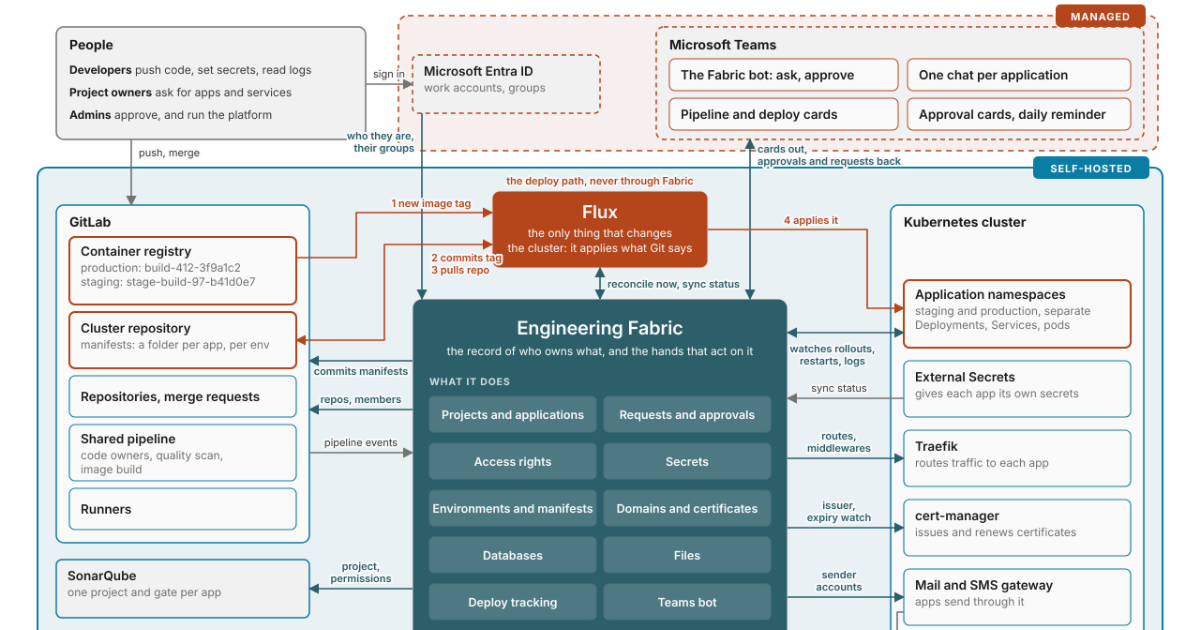
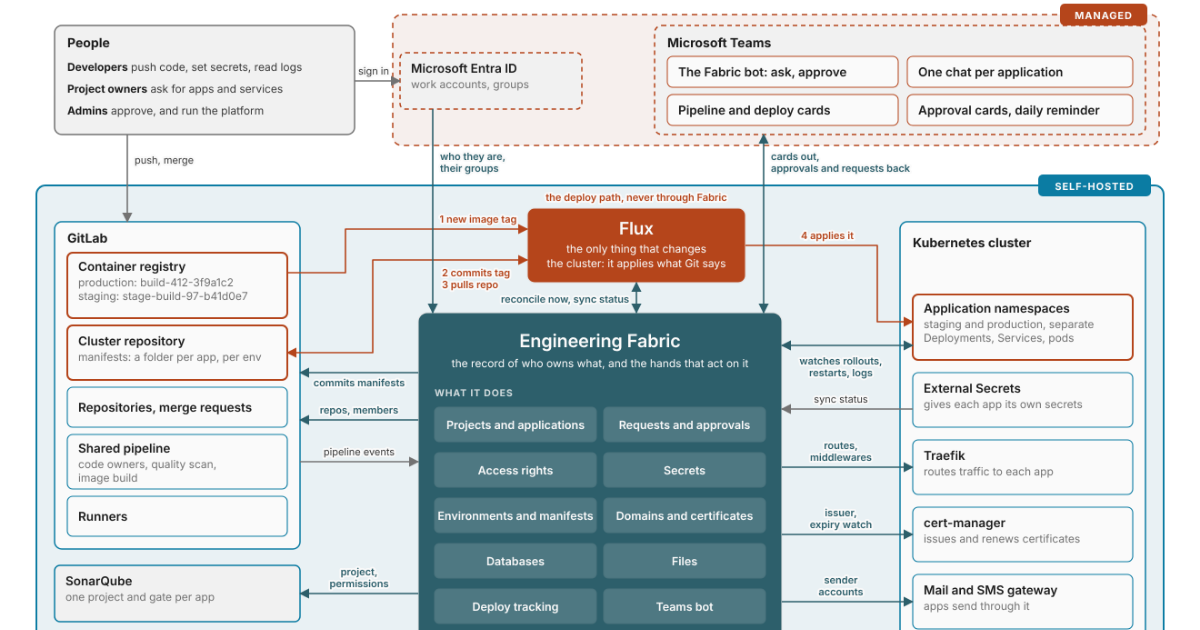
Writing: clean up the architecture map (wider gaps, no label or arrow collisions)
Claude-Session: https://claude.ai/code/session_01SaRwWq1zZFY1QVVTNDxtey

Changed region(s): [[0.0308, 0.0, 0.9867, 1.0]]

diff --git a/blog/how-we-deploy-at-cb/index.html b/blog/how-we-deploy-at-cb/index.html
@@ -36,7 +36,7 @@
 <li>The rust line is the deploy path, numbered in order. Flux sits on it between GitLab and the cluster: it sees a new image in the registry, commits the tag to the cluster repository, pulls that repository, and applies it. None of that touches Fabric.</li>
 </ul>
 
-<figure class='dg arch'><a class='zoom' href='img/architecture.png' aria-label='Open the diagram full size'><div class='dg-wrap'><svg viewBox='0 0 1240 1166' role='img' aria-labelledby='archt archd'><title id='archt'>Architecture: Engineering Fabric and the systems around it</title><desc id='archd'>Developers, project owners and admins sign in through Microsoft Entra ID and are reached in Microsoft Teams. Engineering Fabric, in the centre, creates repositories and sets members in GitLab, creates SonarQube projects, writes secrets to Vault, creates databases, commits manifests to the cluster repository, watches rollouts in Kubernetes, and manages DNS, file storage and API keys at Cloudflare, an S3 service and Google Cloud. Deployments go from GitLab's registry to Flux to the cluster without passing through Fabric.</desc><defs><marker id='arch-ink' class='mk-ink' viewBox='0 0 10 10' refX='9' refY='5' markerWidth='7' markerHeight='7' orient='auto-start-reverse'><path d='M0 0L10 5L0 10z'/></marker><marker id='arch-fab' class='mk-fab' viewBox='0 0 10 10' refX='9' refY='5' markerWidth='7' markerHeight='7' orient='auto-start-reverse'><path d='M0 0L10 5L0 10z'/></marker><marker id='arch-dep' class='mk-dep' viewBox='0 0 10 10' refX='9' refY='5' markerWidth='7' markerHeight='7' orient='auto-start-reverse'><path d='M0 0L10 5L0 10z'/></marker><marker id='arch-sec' class='mk-sec' viewBox='0 0 10 10' refX='9' refY='5' markerWidth='7' markerHeight='7' orient='auto-start-reverse'><path d='M0 0L10 5L0 10z'/></marker></defs><rect class='mregion' x='405' y='18' width='810' height='144' rx='10'/><rect class='mregion' x='25' y='1068' width='1190' height='86' rx='10'/><rect class='region' x='20' y='180' width='1200' height='848' rx='10'/><g class='tab own'><rect x='1082' y='168' width='124' height='24' rx='5'/><text x='1144' y='185' text-anchor='middle'>Self-hosted</text></g><g class='tab rent'><rect x='1106' y='6' width='96' height='24' rx='5'/><text x='1154' y='23' text-anchor='middle'>Managed</text></g><g class='tab rent'><rect x='1106' y='1056' width='96' height='24' rx='5'/><text x='1154' y='1073' text-anchor='middle'>Managed</text></g><g class='actor'><rect class='n' x='40' y='30' width='330' height='120' rx='8'/><text class='zt' x='54' y='54'>People</text><text class='pl' x='54' y='80'><tspan class='pb'>Developers</tspan> push code, set secrets, read logs</text><text class='pl' x='54' y='104'><tspan class='pb'>Project owners</tspan> ask for apps and services</text><text class='pl' x='54' y='128'><tspan class='pb'>Admins</tspan> approve, and run the platform</text></g><g class='rent'><rect class='n' x='420' y='60' width='200' height='62' rx='6'/><text class='t' x='432' y='82'>Microsoft Entra ID</text><text x='432' y='99'>work accounts, groups</text></g><g class='rent'><rect class='n' x='680' y='30' width='520' height='120' rx='8'/><text class='zt' x='694' y='54'>Microsoft Teams</text></g><g class='rent in'><rect class='n' x='694' y='64' width='244' height='34' rx='6'/><text class='t' x='706' y='86'>The Fabric bot: ask, approve</text></g><g class='rent in'><rect class='n' x='948' y='64' width='238' height='34' rx='6'/><text class='t' x='960' y='86'>One chat per application</text></g><g class='rent in'><rect class='n' x='694' y='106' width='244' height='34' rx='6'/><text class='t' x='706' y='128'>Pipeline and deploy cards</text></g><g class='rent in'><rect class='n' x='948' y='106' width='238' height='34' rx='6'/><text class='t' x='960' y='128'>Approval cards, daily reminder</text></g><rect class='zone' x='40' y='220' width='270' height='360' rx='8'/><text class='zt' x='54' y='243'>GitLab</text><g class='own in dep'><rect class='n' x='54' y='254' width='242' height='72' rx='6'/><text class='t' x='66' y='274'>Container registry</text><text x='66' y='291'>production: build-412-3f9a1c2</text><text x='66' y='306'>staging: stage-build-97-b41d0e7</text></g><g class='own in dep'><rect class='n' x='54' y='334' width='242' height='60' rx='6'/><text class='t' x='66' y='356'>Cluster repository</text><text x='66' y='373'>manifests: a folder per app, per env</text></g><g class='own in'><rect class='n' x='54' y='402' width='242' height='44' rx='6'/><text class='t' x='66' y='429'>Repositories, merge requests</text></g><g class='own in'><rect class='n' x='54' y='454' width='242' height='60' rx='6'/><text class='t' x='66' y='474'>Shared pipeline</text><text x='66' y='491'>code owners, quality scan,</text><text x='66' y='506'>image build</text></g><g class='own in'><rect class='n' x='54' y='522' width='242' height='44' rx='6'/><text class='t' x='66' y='549'>Runners</text></g><g class='own'><rect class='n' x='40' y='598' width='270' height='62' rx='6'/><text class='t' x='52' y='620'>SonarQube</text><text x='52' y='637'>one project and gate per app</text></g><g class='own'><rect class='n' x='40' y='678' width='270' height='62' rx='6'/><text class='t' x='52' y='700'>Vault</text><text x='52' y='717'>one path per app and environment</text></g><g class='own'><rect class='n' x='40' y='758' width='270' height='62' rx='6'/><text class='t' x='52' y='780'>NetBird and Hoppscotch</text><text x='52' y='797'>VPN, API workspace per app</text></g><g class='own'><rect class='n' x='40' y='838' width='270' height='62' rx='6'/><text class='t' x='52' y='860'>Database servers</text><text x='52' y='877'>PostgreSQL and MySQL</text></g><g class='own'><rect class='n' x='40' y='918' width='270' height='62' rx='6'/><text class='t' x='52' y='940'>Renovate and Trivy</text><text x='52' y='957'>dependency updates, image scans</text></g><g class='flux'><rect x='505' y='205' width='230' height='82' rx='8'/><text class='t' x='620' y='234' text-anchor='middle'>Flux</text><text x='620' y='254' text-anchor='middle'>the only thing that changes</text><text x='620' y='270' text-anchor='middle'>the cluster: it applies what Git says</text></g><g class='hub'><rect x='420' y='320' width='400' height='680' rx='10'/><text class='t' x='620' y='358' text-anchor='middle'>Engineering Fabric</text><text x='620' y='380' text-anchor='middle'>the record of who owns what, and the hands that act on it</text><text class='hg' x='438' y='412'>What it does</text><rect class='chip' x='438' y='424' width='178' height='38' rx='5'/><text class='ct' x='527' y='448' text-anchor='middle'>Projects and applications</text><rect class='chip' x='624' y='424' width='178' height='38' rx='5'/><text class='ct' x='713' y='448' text-anchor='middle'>Requests and approvals</text><rect class='chip' x='438' y='474' width='178' height='38' rx='5'/><text class='ct' x='527' y='498' text-anchor='middle'>Access rights</text><rect class='chip' x='624' y='474' width='178' height='38' rx='5'/><text class='ct' x='713' y='498' text-anchor='middle'>Secrets</text><rect class='chip' x='438' y='524' width='178' height='38' rx='5'/><text class='ct' x='527' y='548' text-anchor='middle'>Environments and manifests</text><rect class='chip' x='624' y='524' width='178' height='38' rx='5'/><text class='ct' x='713' y='548' text-anchor='middle'>Domains and certificates</text><rect class='chip' x='438' y='574' width='178' height='38' rx='5'/><text class='ct' x='527' y='598' text-anchor='middle'>Databases</text><rect class='chip' x='624' y='574' width='178' height='38' rx='5'/><text class='ct' x='713' y='598' text-anchor='middle'>Files</text><rect class='chip' x='438' y='624' width='178' height='38' rx='5'/><text class='ct' x='527' y='648' text-anchor='middle'>Deploy tracking</text><rect class='chip' x='624' y='624' width='178' height='38' rx='5'/><text class='ct' x='713' y='648' text-anchor='middle'>Teams bot</text><rect class='chip' x='438' y='674' width='178' height='38' rx='5'/><text class='ct' x='527' y='698' text-anchor='middle'>Vulnerability scans</text><rect class='chip' x='624' y='674' width='178' height='38' rx='5'/><text class='ct' x='713' y='698' text-anchor='middle'>Audit log</text><text class='hg' x='438' y='770'>How it behaves</text><text class='hn' x='438' y='796'>Every change is recorded: who, what, when.</text><text class='hn' x='438' y='820'>Long jobs are Temporal workflows that resume</text><text class='hn' x='438' y='838'>where they stopped.</text><text class='hn' x='438' y='862'>Never reads a Kubernetes Secret.</text><text class='hn' x='438' y='886'>Changes the cluster only through Git.</text><text class='hn' x='438' y='910'>Deployed the same way as every other app.</text></g><rect class='zone' x='930' y='220' width='270' height='780' rx='8'/><text class='zt' x='944' y='243'>Kubernetes cluster</text><g class='own in dep'><rect class='n' x='944' y='300' width='242' height='72' rx='6'/><text class='t' x='956' y='320'>Application namespaces</text><text x='956' y='337'>staging and production, separate</text><text x='956' y='352'>Deployments, Services, pods</text></g><g class='own in'><rect class='n' x='944' y='386' width='242' height='60' rx='6'/><text class='t' x='956' y='408'>External Secrets</text><text x='956' y='425'>gives each app its own secrets</text></g><g class='own in'><rect class='n' x='944' y='460' width='242' height='60' rx='6'/><text class='t' x='956' y='482'>Traefik</text><text x='956' y='499'>routes traffic to each app</text></g><g class='own in'><rect class='n' x='944' y='534' width='242' height='60' rx='6'/><text class='t' x='956' y='556'>cert-manager</text><text x='956' y='573'>issues and renews certificates</text></g><g class='own in'><rect class='n' x='944' y='608' width='242' height='60' rx='6'/><text class='t' x='956' y='630'>Mail and SMS gateway</text><text x='956' y='647'>apps send through it</text></g><g class='own in'><rect class='n' x='944' y='682' width='242' height='60' rx='6'/><text class='t' x='956' y='704'>Internal tools</text><text x='956' y='721'>Jira, Metabase, wiki, DB consoles</text></g><g class='own in'><rect class='n' x='944' y='756' width='242' height='44' rx='6'/><text class='t' x='956' y='783'>Prometheus and Grafana</text></g><g class='own in'><rect class='n' x='944' y='814' width='242' height='60' rx='6'/><text class='t' x='956' y='836'>Backups and network</text><text x='956' y='853'>k8up, Cilium, Cloudflare Tunnel</text></g><g class='rent'><rect class='n' x='40' y='1082' width='190' height='62' rx='6'/><text class='t' x='52' y='1104'>Email and SMS providers</text><text x='52' y='1121'>delivery</text></g><g class='rent'><rect class='n' x='280' y='1082' width='190' height='62' rx='6'/><text class='t' x='292' y='1104'>Cloudflare</text><text x='292' y='1121'>DNS, public file CDN</text></g><g class='rent'><rect class='n' x='520' y='1082' width='190' height='62' rx='6'/><text class='t' x='532' y='1104'>S3 service</text><text x='532' y='1121'>private file storage</text></g><g class='rent'><rect class='n' x='760' y='1082' width='190' height='62' rx='6'/><text class='t' x='772' y='1104'>Google Cloud</text><text x='772' y='1121'>Maps, reCAPTCHA, Firebase</text></g><g class='rent'><rect class='n' x='1000' y='1082' width='190' height='62' rx='6'/><text class='t' x='1012' y='1104'>Certificate authorities</text><text x='1012' y='1121'>free public certificates</text></g><path class='a a-ink' d='M120 150V220' marker-end='url(#arch-ink)'/><text class='al al-ink' x='128' y='168' text-anchor='start'>push, merge</text><path class='a a-ink' d='M370 91H420' marker-end='url(#arch-ink)'/><text class='al al-ink' x='395' y='84' text-anchor='middle'>sign in</text><path class='a a-fab' d='M430 122V320' marker-end='url(#arch-fab)'/><text class='al al-fab' x='422' y='150' text-anchor='end'>who they are,</text><text class='al al-fab' x='422' y='163' text-anchor='end'>their groups</text><path class='a a-fab' d='M780 150V320' marker-end='url(#arch-fab)' marker-start='url(#arch-fab)'/><text class='al al-fab' x='788' y='164' text-anchor='start'>cards out,</text><text class='al al-fab' x='788' y='177' text-anchor='start'>approvals and requests back</text><text class='al al-dep' x='620' y='198' text-anchor='middle'>the deploy path, never through Fabric</text><path class='a a-dep' d='M296 276H360V228H505' marker-end='url(#arch-dep)'/><text class='al al-dep' x='440' y='222' text-anchor='middle'>1 new image tag</text><path class='a a-dep' d='M296 364H390V262H505' marker-end='url(#arch-dep)' marker-start='url(#arch-dep)'/><text class='al al-dep' x='440' y='280' text-anchor='start'>2 commits tag</text><text class='al al-dep' x='440' y='293' text-anchor='start'>3 pulls repo</text><path class='a a-dep' d='M735 246H905V330H944' marker-end='url(#arch-dep)'/><text class='al al-dep' x='845' y='240' text-anchor='middle'>4 applies it</text><path class='a a-fab' d='M620 320V287' marker-end='url(#arch-fab)' marker-start='url(#arch-fab)'/><text class='al al-fab' x='628' y='308' text-anchor='start'>reconcile now, sync status</text><path class='a a-fab' d='M420 386H310' marker-end='url(#arch-fab)'/><text class='al al-fab' x='365' y='401' text-anchor='middle'>commits manifests</text><path class='a a-fab' d='M420 438H310' marker-end='url(#arch-fab)'/><text class='al al-fab' x='365' y='431' text-anchor='middle'>repos, members</text><path class='a a-ink' d='M310 484H420' marker-end='url(#arch-ink)'/><text class='al al-ink' x='365' y='477' text-anchor='middle'>pipeline events</text><path class='a a-fab' d='M420 629H310' marker-end='url(#arch-fab)'/><text class='al al-fab' x='365' y='609' text-anchor='middle'>project,</text><text class='al al-fab' x='365' y='622' text-anchor='middle'>permissions</text><path class='a a-fab' d='M420 709H310' marker-end='url(#arch-fab)'/><text class='al al-fab' x='365' y='702' text-anchor='middle'>writes secrets</text><path class='a a-fab' d='M420 789H310' marker-end='url(#arch-fab)'/><text class='al al-fab' x='365' y='769' text-anchor='middle'>VPN access,</text><text class='al al-fab' x='365' y='782' text-anchor='middle'>workspaces</text><path class='a a-fab' d='M420 869H310' marker-end='url(#arch-fab)'/><text class='al al-fab' x='365' y='849' text-anchor='middle'>databases,</text><text class='al al-fab' x='365' y='862' text-anchor='middle'>logins, grants</text><path class='a a-fab' d='M420 949H310' marker-end='url(#arch-fab)' marker-start='url(#arch-fab)'/><text class='al al-fab' x='365' y='929' text-anchor='middle'>starts scans,</text><text class='al al-fab' x='365' y='942' text-anchor='middle'>reads findings</text><path class='a a-fab' d='M820 356H944' marker-end='url(#arch-fab)' marker-start='url(#arch-fab)'/><text class='al al-fab' x='868' y='377' text-anchor='middle'>watches rollouts,</text><text class='al al-fab' x='868' y='390' text-anchor='middle'>restarts, logs</text><path class='a a-ink' d='M944 426H820' marker-end='url(#arch-ink)'/><text class='al al-ink' x='875' y='419' text-anchor='middle'>sync status</text><path class='a a-fab' d='M820 490H944' marker-end='url(#arch-fab)'/><text class='al al-fab' x='875' y='470' text-anchor='middle'>routes,</text><text class='al al-fab' x='875' y='483' text-anchor='middle'>middlewares</text><path class='a a-fab' d='M820 564H944' marker-end='url(#arch-fab)'/><text class='al al-fab' x='875' y='544' text-anchor='middle'>issuer,</text><text class='al al-fab' x='875' y='557' text-anchor='middle'>expiry watch</text><path class='a a-fab' d='M820 638H944' marker-end='url(#arch-fab)'/><text class='al al-fab' x='875' y='618' text-anchor='middle'>sender</text><text class='al al-fab' x='875' y='631' text-anchor='middle'>accounts</text><path class='a a-fab' d='M820 712H944' marker-end='url(#arch-fab)'/><text class='al al-fab' x='875' y='692' text-anchor='middle'>who gets</text><text class='al al-fab' x='875' y='705' text-anchor='middle'>into what</text><path class='a a-fab' d='M450 1000V1082' marker-end='url(#arch-fab)'/><text class='al al-fab' x='458' y='1052' text-anchor='start'>DNS records, files</text><path class='a a-fab' d='M615 1000V1082' marker-end='url(#arch-fab)'/><text class='al al-fab' x='623' y='1052' text-anchor='start'>buckets, keys</text><path class='a a-fab' d='M790 1000V1082' marker-end='url(#arch-fab)'/><text class='al al-fab' x='798' y='1052' text-anchor='start'>keys, projects</text><path class='a a-ink' d='M1095 1000V1082' marker-end='url(#arch-ink)'/><text class='al al-ink' x='1103' y='1052' text-anchor='start'>requests certificates</text><path class='a a-ink' d='M944 654H937V1040H135V1082' marker-end='url(#arch-ink)'/><text class='al al-ink' x='250' y='1035' text-anchor='middle'>mail and SMS out</text></svg></div></a><div class='legend'><span><i class='own'></i>self-hosted</span><span><i class='rent'></i>managed</span><span><i class='fab'></i>Fabric makes a change or reads a status</span><span><i class='dep'></i>the deploy path</span></div><p class='full'><a href='img/architecture.png'><span class='tap'>Tap the diagram to enlarge it</span><span class='click'>Open the diagram full size</span></a></p><figcaption><span class='fignum'>Figure 1.</span> Engineering Fabric and everything it connects. Flux sits between Git and the cluster. The twelve tiles inside Fabric are its own modules; each one is covered below.</figcaption></figure>
+<figure class='dg arch'><a class='zoom' href='img/architecture.png' aria-label='Open the diagram full size'><div class='dg-wrap'><svg viewBox='0 0 1280 1222' role='img' aria-labelledby='archt archd'><title id='archt'>Architecture: Engineering Fabric and the systems around it</title><desc id='archd'>Developers, project owners and admins sign in through Microsoft Entra ID and are reached in Microsoft Teams. Engineering Fabric, in the centre, creates repositories and sets members in GitLab, creates SonarQube projects, writes secrets to Vault, creates databases, commits manifests to the cluster repository, watches rollouts in Kubernetes, and manages DNS, file storage and API keys at Cloudflare, an S3 service and Google Cloud. Deployments go from GitLab's registry through Flux to the cluster without passing through Fabric.</desc><defs><marker id='arch-ink' class='mk-ink' viewBox='0 0 10 10' refX='9' refY='5' markerWidth='7' markerHeight='7' orient='auto-start-reverse'><path d='M0 0L10 5L0 10z'/></marker><marker id='arch-fab' class='mk-fab' viewBox='0 0 10 10' refX='9' refY='5' markerWidth='7' markerHeight='7' orient='auto-start-reverse'><path d='M0 0L10 5L0 10z'/></marker><marker id='arch-dep' class='mk-dep' viewBox='0 0 10 10' refX='9' refY='5' markerWidth='7' markerHeight='7' orient='auto-start-reverse'><path d='M0 0L10 5L0 10z'/></marker><marker id='arch-sec' class='mk-sec' viewBox='0 0 10 10' refX='9' refY='5' markerWidth='7' markerHeight='7' orient='auto-start-reverse'><path d='M0 0L10 5L0 10z'/></marker></defs><rect class='mregion' x='412' y='18' width='843' height='144' rx='10'/><g class='tab rent'><rect x='1146' y='6' width='96' height='24' rx='5'/><text x='1194' y='23' text-anchor='middle'>Managed</text></g><g class='actor'><rect class='n' x='40' y='30' width='330' height='120' rx='8'/><text class='zt' x='54' y='54'>People</text><text class='pl' x='54' y='80'><tspan class='pb'>Developers</tspan> push code, set secrets, read logs</text><text class='pl' x='54' y='104'><tspan class='pb'>Project owners</tspan> ask for apps and services</text><text class='pl' x='54' y='128'><tspan class='pb'>Admins</tspan> approve, and run the platform</text></g><g class='rent'><rect class='n' x='420' y='60' width='200' height='62' rx='6'/><text class='t' x='432' y='82'>Microsoft Entra ID</text><text x='432' y='99'>work accounts, groups</text></g><g class='rent'><rect class='n' x='700' y='30' width='540' height='120' rx='8'/><text class='zt' x='714' y='54'>Microsoft Teams</text></g><g class='rent in'><rect class='n' x='714' y='64' width='254' height='34' rx='6'/><text class='t' x='726' y='86'>The Fabric bot: ask, approve</text></g><g class='rent in'><rect class='n' x='978' y='64' width='248' height='34' rx='6'/><text class='t' x='990' y='86'>One chat per application</text></g><g class='rent in'><rect class='n' x='714' y='106' width='254' height='34' rx='6'/><text class='t' x='726' y='128'>Pipeline and deploy cards</text></g><g class='rent in'><rect class='n' x='978' y='106' width='248' height='34' rx='6'/><text class='t' x='990' y='128'>Approval cards, daily reminder</text></g><path class='a a-ink' d='M370 91H420' marker-end='url(#arch-ink)'/><text class='al al-ink' x='391' y='84' text-anchor='middle'>sign in</text><g transform='translate(0,26)'><rect class='region' x='20' y='180' width='1240' height='848' rx='10'/><g class='tab own'><rect x='1122' y='168' width='124' height='24' rx='5'/><text x='1184' y='185' text-anchor='middle'>Self-hosted</text></g><rect class='zone' x='40' y='220' width='270' height='360' rx='8'/><text class='zt' x='54' y='243'>GitLab</text><g class='own in dep'><rect class='n' x='54' y='254' width='242' height='72' rx='6'/><text class='t' x='66' y='274'>Container registry</text><text x='66' y='291'>production: build-412-3f9a1c2</text><text x='66' y='306'>staging: stage-build-97-b41d0e7</text></g><g class='own in dep'><rect class='n' x='54' y='334' width='242' height='60' rx='6'/><text class='t' x='66' y='356'>Cluster repository</text><text x='66' y='373'>manifests: a folder per app, per env</text></g><g class='own in'><rect class='n' x='54' y='402' width='242' height='44' rx='6'/><text class='t' x='66' y='429'>Repositories, merge requests</text></g><g class='own in'><rect class='n' x='54' y='454' width='242' height='60' rx='6'/><text class='t' x='66' y='474'>Shared pipeline</text><text x='66' y='491'>code owners, quality scan,</text><text x='66' y='506'>image build</text></g><g class='own in'><rect class='n' x='54' y='522' width='242' height='44' rx='6'/><text class='t' x='66' y='549'>Runners</text></g><g class='own'><rect class='n' x='40' y='598' width='270' height='62' rx='6'/><text class='t' x='52' y='620'>SonarQube</text><text x='52' y='637'>one project and gate per app</text></g><g class='own'><rect class='n' x='40' y='678' width='270' height='62' rx='6'/><text class='t' x='52' y='700'>Vault</text><text x='52' y='717'>one path per app and environment</text></g><g class='own'><rect class='n' x='40' y='758' width='270' height='62' rx='6'/><text class='t' x='52' y='780'>NetBird and Hoppscotch</text><text x='52' y='797'>VPN, API workspace per app</text></g><g class='own'><rect class='n' x='40' y='838' width='270' height='62' rx='6'/><text class='t' x='52' y='860'>Database servers</text><text x='52' y='877'>PostgreSQL and MySQL</text></g><g class='own'><rect class='n' x='40' y='918' width='270' height='62' rx='6'/><text class='t' x='52' y='940'>Renovate and Trivy</text><text x='52' y='957'>dependency updates, image scans</text></g><text class='al al-dep' x='680' y='197' text-anchor='middle'>the deploy path, never through Fabric</text><g class='flux'><rect x='560' y='205' width='240' height='82' rx='8'/><text class='t' x='680' y='234' text-anchor='middle'>Flux</text><text x='680' y='254' text-anchor='middle'>the only thing that changes</text><text x='680' y='270' text-anchor='middle'>the cluster: it applies what Git says</text></g><g class='hub'><rect x='440' y='320' width='400' height='680' rx='10'/><text class='t' x='640' y='358' text-anchor='middle'>Engineering Fabric</text><text x='640' y='380' text-anchor='middle'>the record of who owns what, and the hands that act on it</text><text class='hg' x='458' y='412'>What it does</text><rect class='chip' x='458' y='424' width='178' height='38' rx='5'/><text class='ct' x='547' y='448' text-anchor='middle'>Projects and applications</text><rect class='chip' x='644' y='424' width='178' height='38' rx='5'/><text class='ct' x='733' y='448' text-anchor='middle'>Requests and approvals</text><rect class='chip' x='458' y='474' width='178' height='38' rx='5'/><text class='ct' x='547' y='498' text-anchor='middle'>Access rights</text><rect class='chip' x='644' y='474' width='178' height='38' rx='5'/><text class='ct' x='733' y='498' text-anchor='middle'>Secrets</text><rect class='chip' x='458' y='524' width='178' height='38' rx='5'/><text class='ct' x='547' y='548' text-anchor='middle'>Environments and manifests</text><rect class='chip' x='644' y='524' width='178' height='38' rx='5'/><text class='ct' x='733' y='548' text-anchor='middle'>Domains and certificates</text><rect class='chip' x='458' y='574' width='178' height='38' rx='5'/><text class='ct' x='547' y='598' text-anchor='middle'>Databases</text><rect class='chip' x='644' y='574' width='178' height='38' rx='5'/><text class='ct' x='733' y='598' text-anchor='middle'>Files</text><rect class='chip' x='458' y='624' width='178' height='38' rx='5'/><text class='ct' x='547' y='648' text-anchor='middle'>Deploy tracking</text><rect class='chip' x='644' y='624' width='178' height='38' rx='5'/><text class='ct' x='733' y='648' text-anchor='middle'>Teams bot</text><rect class='chip' x='458' y='674' width='178' height='38' rx='5'/><text class='ct' x='547' y='698' text-anchor='middle'>Vulnerability scans</text><rect class='chip' x='644' y='674' width='178' height='38' rx='5'/><text class='ct' x='733' y='698' text-anchor='middle'>Audit log</text><text class='hg' x='458' y='770'>How it behaves</text><text class='hn' x='458' y='796'>Every change is recorded: who, what, when.</text><text class='hn' x='458' y='820'>Long jobs are Temporal workflows that resume</text><text class='hn' x='458' y='838'>where they stopped.</text><text class='hn' x='458' y='862'>Never reads a Kubernetes Secret.</text><text class='hn' x='458' y='886'>Changes the cluster only through Git.</text><text class='hn' x='458' y='910'>Deployed the same way as every other app.</text></g><rect class='zone' x='970' y='220' width='270' height='780' rx='8'/><text class='zt' x='984' y='248'>Kubernetes cluster</text><g class='own in dep'><rect class='n' x='984' y='300' width='242' height='72' rx='6'/><text class='t' x='996' y='320'>Application namespaces</text><text x='996' y='337'>staging and production, separate</text><text x='996' y='352'>Deployments, Services, pods</text></g><g class='own in'><rect class='n' x='984' y='386' width='242' height='60' rx='6'/><text class='t' x='996' y='408'>External Secrets</text><text x='996' y='425'>gives each app its own secrets</text></g><g class='own in'><rect class='n' x='984' y='460' width='242' height='60' rx='6'/><text class='t' x='996' y='482'>Traefik</text><text x='996' y='499'>routes traffic to each app</text></g><g class='own in'><rect class='n' x='984' y='534' width='242' height='60' rx='6'/><text class='t' x='996' y='556'>cert-manager</text><text x='996' y='573'>issues and renews certificates</text></g><g class='own in'><rect class='n' x='984' y='608' width='242' height='60' rx='6'/><text class='t' x='996' y='630'>Mail and SMS gateway</text><text x='996' y='647'>apps send through it</text></g><g class='own in'><rect class='n' x='984' y='682' width='242' height='60' rx='6'/><text class='t' x='996' y='704'>Internal tools</text><text x='996' y='721'>Jira, Metabase, wiki, DB consoles</text></g><g class='own in'><rect class='n' x='984' y='756' width='242' height='44' rx='6'/><text class='t' x='996' y='783'>Prometheus and Grafana</text></g><g class='own in'><rect class='n' x='984' y='814' width='242' height='60' rx='6'/><text class='t' x='996' y='836'>Backups and network</text><text x='996' y='853'>k8up, Cilium, Cloudflare Tunnel</text></g><path class='a a-dep' d='M296 276H360V228H560' marker-end='url(#arch-dep)'/><text class='al al-dep' x='506' y='221' text-anchor='middle'>1 new image tag</text><path class='a a-dep' d='M296 364H390V262H560' marker-end='url(#arch-dep)' marker-start='url(#arch-dep)'/><text class='al al-dep' x='466' y='280' text-anchor='start'>2 commits tag</text><text class='al al-dep' x='466' y='293' text-anchor='start'>3 pulls repo</text><path class='a a-dep' d='M800 246H945V330H984' marker-end='url(#arch-dep)'/><text class='al al-dep' x='890' y='239' text-anchor='middle'>4 applies it</text><path class='a a-fab' d='M680 320V287' marker-end='url(#arch-fab)' marker-start='url(#arch-fab)'/><text class='al al-fab' x='672' y='309' text-anchor='end'>reconcile now, sync status</text><path class='a a-fab' d='M440 386H310' marker-end='url(#arch-fab)'/><text class='al al-fab' x='375' y='401' text-anchor='middle'>commits manifests</text><path class='a a-fab' d='M440 438H310' marker-end='url(#arch-fab)'/><text class='al al-fab' x='375' y='431' text-anchor='middle'>repos, members</text><path class='a a-ink' d='M310 484H440' marker-end='url(#arch-ink)'/><text class='al al-ink' x='375' y='477' text-anchor='middle'>pipeline events</text><path class='a a-fab' d='M440 629H310' marker-end='url(#arch-fab)'/><text class='al al-fab' x='375' y='609' text-anchor='middle'>project,</text><text class='al al-fab' x='375' y='622' text-anchor='middle'>permissions</text><path class='a a-fab' d='M440 709H310' marker-end='url(#arch-fab)'/><text class='al al-fab' x='375' y='702' text-anchor='middle'>writes secrets</text><path class='a a-fab' d='M440 789H310' marker-end='url(#arch-fab)'/><text class='al al-fab' x='375' y='769' text-anchor='middle'>VPN access,</text><text class='al al-fab' x='375' y='782' text-anchor='middle'>workspaces</text><path class='a a-fab' d='M440 869H310' marker-end='url(#arch-fab)'/><text class='al al-fab' x='375' y='849' text-anchor='middle'>databases,</text><text class='al al-fab' x='375' y='862' text-anchor='middle'>logins, grants</text><path class='a a-fab' d='M440 949H310' marker-end='url(#arch-fab)' marker-start='url(#arch-fab)'/><text class='al al-fab' x='375' y='929' text-anchor='middle'>starts scans,</text><text class='al al-fab' x='375' y='942' text-anchor='middle'>reads findings</text><path class='a a-fab' d='M840 356H984' marker-end='url(#arch-fab)' marker-start='url(#arch-fab)'/><text class='al al-fab' x='905' y='377' text-anchor='middle'>watches rollouts,</text><text class='al al-fab' x='905' y='390' text-anchor='middle'>restarts, logs</text><path class='a a-ink' d='M984 426H840' marker-end='url(#arch-ink)'/><text class='al al-ink' x='905' y='419' text-anchor='middle'>sync status</text><path class='a a-fab' d='M840 490H984' marker-end='url(#arch-fab)'/><text class='al al-fab' x='905' y='470' text-anchor='middle'>routes,</text><text class='al al-fab' x='905' y='483' text-anchor='middle'>middlewares</text><path class='a a-fab' d='M840 564H984' marker-end='url(#arch-fab)'/><text class='al al-fab' x='905' y='544' text-anchor='middle'>issuer,</text><text class='al al-fab' x='905' y='557' text-anchor='middle'>expiry watch</text><path class='a a-fab' d='M840 638H984' marker-end='url(#arch-fab)'/><text class='al al-fab' x='905' y='618' text-anchor='middle'>sender</text><text class='al al-fab' x='905' y='631' text-anchor='middle'>accounts</text><path class='a a-fab' d='M840 712H984' marker-end='url(#arch-fab)'/><text class='al al-fab' x='905' y='692' text-anchor='middle'>who gets</text><text class='al al-fab' x='905' y='705' text-anchor='middle'>into what</text><rect class='mregion' x='25' y='1090' width='1230' height='96' rx='10'/><g class='tab rent'><rect x='37' y='1078' width='96' height='24' rx='5'/><text x='85' y='1095' text-anchor='middle'>Managed</text></g><g class='rent'><rect class='n' x='40' y='1114' width='190' height='62' rx='6'/><text class='t' x='52' y='1136'>Email and SMS providers</text><text x='52' y='1153'>delivery</text></g><g class='rent'><rect class='n' x='290' y='1114' width='190' height='62' rx='6'/><text class='t' x='302' y='1136'>Cloudflare</text><text x='302' y='1153'>DNS, public file CDN</text></g><g class='rent'><rect class='n' x='540' y='1114' width='190' height='62' rx='6'/><text class='t' x='552' y='1136'>S3 service</text><text x='552' y='1153'>private file storage</text></g><g class='rent'><rect class='n' x='790' y='1114' width='190' height='62' rx='6'/><text class='t' x='802' y='1136'>Google Cloud</text><text x='802' y='1153'>Maps, reCAPTCHA, Firebase</text></g><g class='rent'><rect class='n' x='1040' y='1114' width='190' height='62' rx='6'/><text class='t' x='1052' y='1136'>Certificate authorities</text><text x='1052' y='1153'>free public certificates</text></g><path class='a a-fab' d='M470 1000V1114' marker-end='url(#arch-fab)'/><text class='al al-fab' x='478' y='1076' text-anchor='start'>DNS records, files</text><path class='a a-fab' d='M640 1000V1114' marker-end='url(#arch-fab)'/><text class='al al-fab' x='648' y='1076' text-anchor='start'>buckets, keys</text><path class='a a-fab' d='M810 1000V1114' marker-end='url(#arch-fab)'/><text class='al al-fab' x='818' y='1076' text-anchor='start'>keys, projects</text><path class='a a-ink' d='M1135 1000V1114' marker-end='url(#arch-ink)'/><text class='al al-ink' x='1143' y='1076' text-anchor='start'>requests certificates</text><path class='a a-ink' d='M1030 1000V1046H185V1114' marker-end='url(#arch-ink)'/><text class='al al-ink' x='320' y='1062' text-anchor='middle'>mail and SMS out, from the gateway</text></g><path class='a a-ink' d='M120 150V246' marker-end='url(#arch-ink)'/><text class='al al-ink' x='128' y='182' text-anchor='start'>push, merge</text><path class='a a-fab' d='M456 122V346' marker-end='url(#arch-fab)'/><text class='al al-fab' x='464' y='178' text-anchor='start'>who they are,</text><text class='al al-fab' x='464' y='191' text-anchor='start'>their groups</text><path class='a a-fab' d='M820 150V346' marker-end='url(#arch-fab)' marker-start='url(#arch-fab)'/><text class='al al-fab' x='828' y='178' text-anchor='start'>cards out,</text><text class='al al-fab' x='828' y='191' text-anchor='start'>approvals and requests back</text></svg></div></a><div class='legend'><span><i class='own'></i>self-hosted</span><span><i class='rent'></i>managed</span><span><i class='fab'></i>Fabric makes a change or reads a status</span><span><i class='dep'></i>the deploy path</span></div><p class='full'><a href='img/architecture.png'><span class='tap'>Tap the diagram to enlarge it</span><span class='click'>Open the diagram full size</span></a></p><figcaption><span class='fignum'>Figure 1.</span> Engineering Fabric and everything it connects. Flux sits between Git and the cluster. The twelve tiles inside Fabric are its own modules; each one is covered below.</figcaption></figure>
 
 <p>Two things in that picture were decisions, not accidents. The first is that Fabric has no arrow into the deploy path. A merge reaches production through GitLab, the registry and Flux, and none of those ask Fabric for anything. Fabric sets things up beforehand and reports afterwards. The second is that Fabric never creates anything in the cluster directly. It commits files to the cluster repository like a person would, and Flux applies them. What Fabric does directly in Kubernetes is read, plus a restart when someone asks for one.</p>
 
